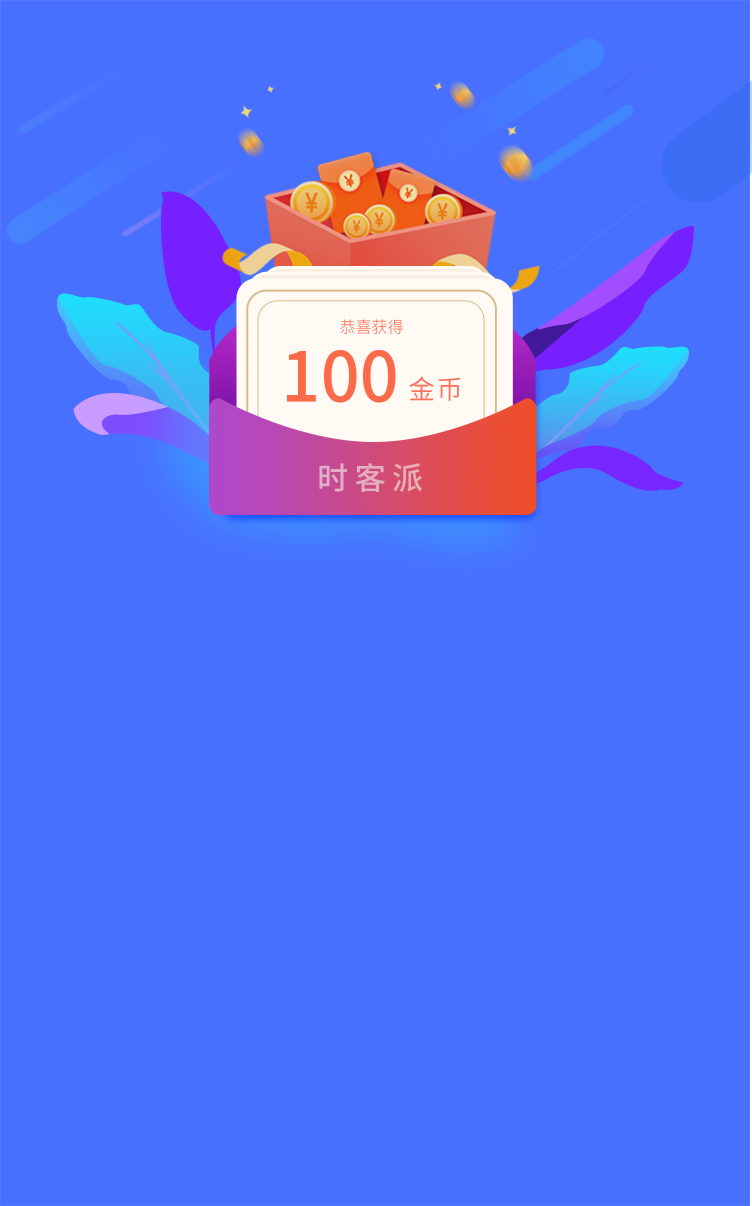
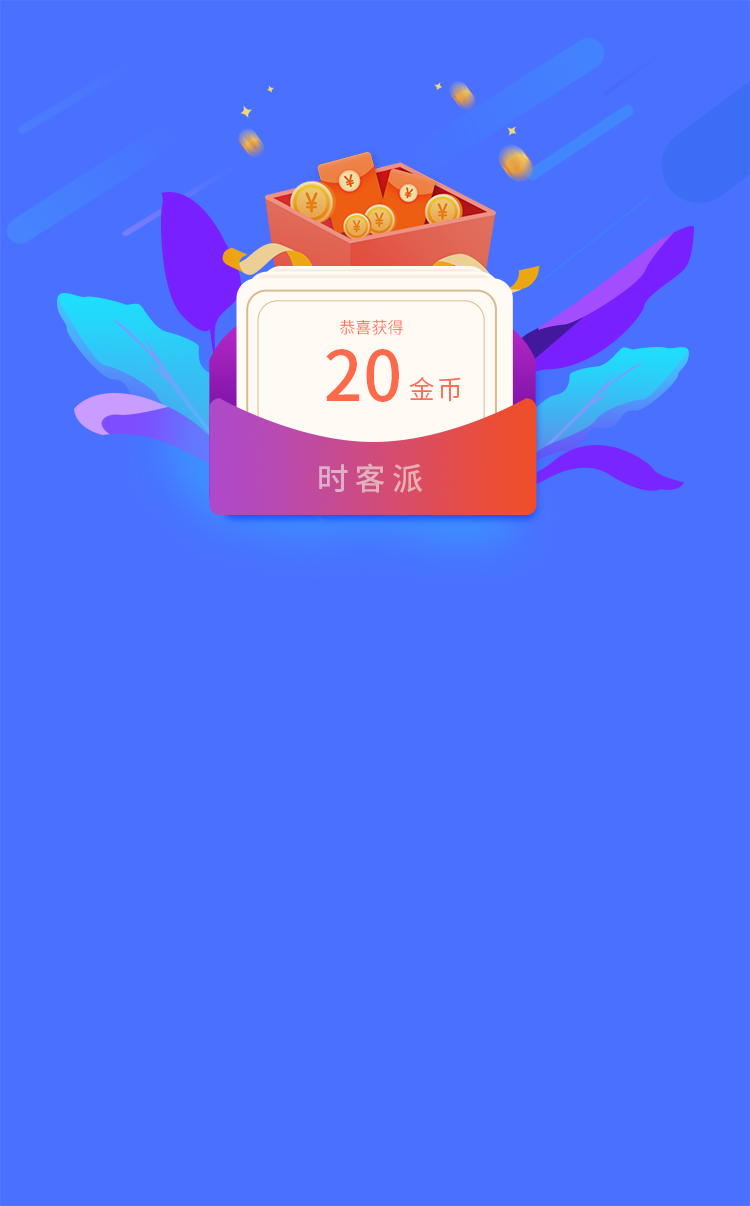
100 to 20

diff --git a/src/pages/BrokerAward/index.tsx b/src/pages/BrokerAward/index.tsx
@@ -9,7 +9,7 @@ let BrokerAward = () => {
   let fornewFlag = fornew * 1 === 1;
   let userInfo = decodeURIComponent(queryString().userInfo);
   useEffect(() => {
-    document.title = '时客派-注册领100金币福利';
+    document.title = '时客派-注册领20金币福利';
   }, []);
   let handleAction = () => {
     if (fornewFlag) {
@@ -28,7 +28,7 @@ let BrokerAward = () => {
       <div className="BrokerAwardContent">
         <div className="BrokerAwardTextWrap">
           <p className="BrokerAwardText1">
-            {fornewFlag ? '100金币已放至账户' + userInfo : '您已注册成为时客派用户'}
+            {fornewFlag ? '20金币已放至账户' + userInfo : '您已注册成为时客派用户'}
           </p>
           <p className="BrokerAwardText2">
             {fornewFlag ? '登录时客派App即可查看' : '30万信贷经理首选的一站式获客展业平台'}

diff --git a/src/pages/BrokerRegister/index.tsx b/src/pages/BrokerRegister/index.tsx
@@ -4,7 +4,7 @@ import './index.less';
 import XForm from './XForm';
 let BrokerRegister = () => {
   useEffect(() => {
-    document.title = '时客派-注册领100金币福利';
+    document.title = '时客派-注册领20金币福利';
   }, []);
   return (
     <div className="BrokerRegister" style={{ backgroundImage: `url(${BrokerRegisterBg})` }}>
